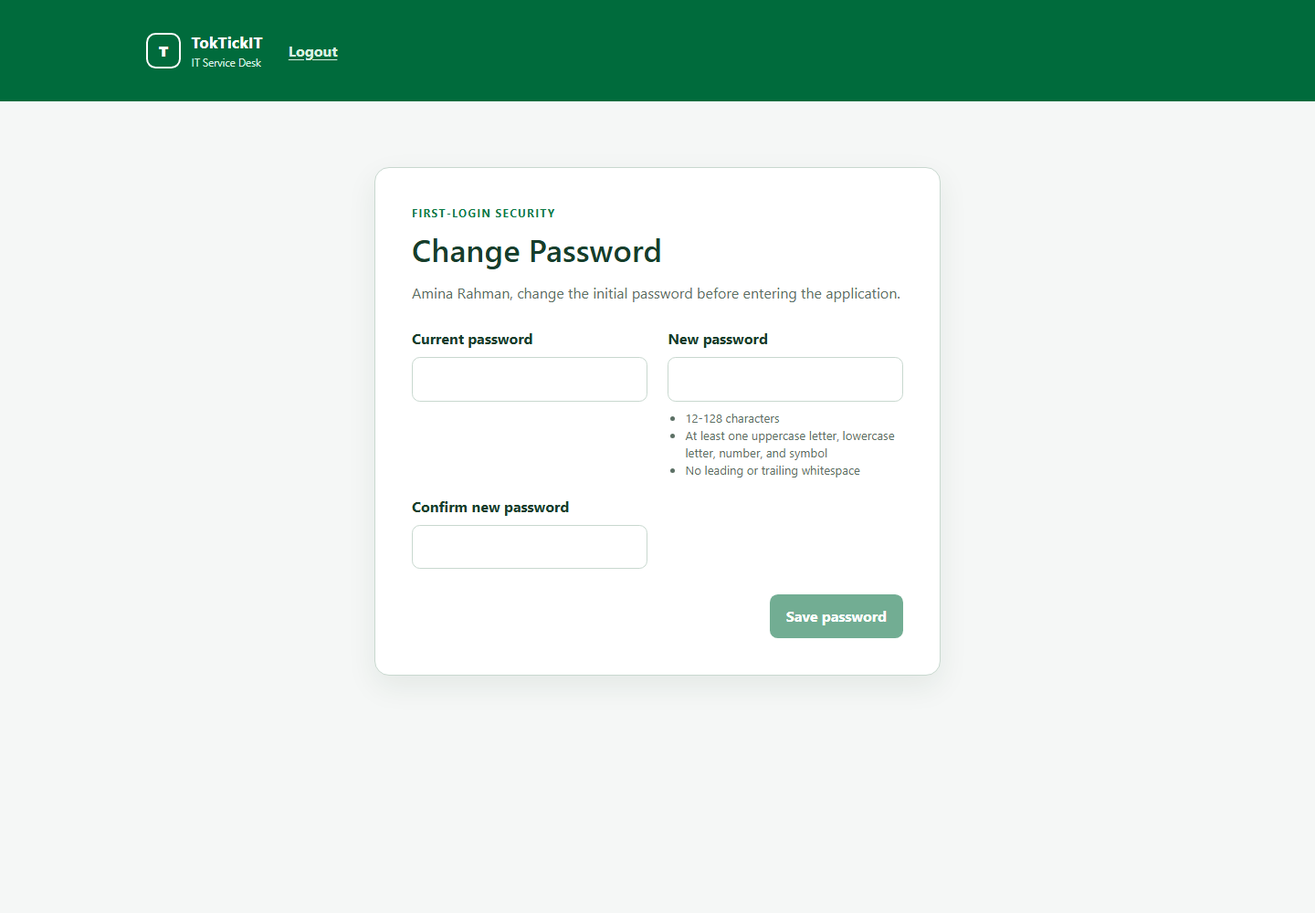
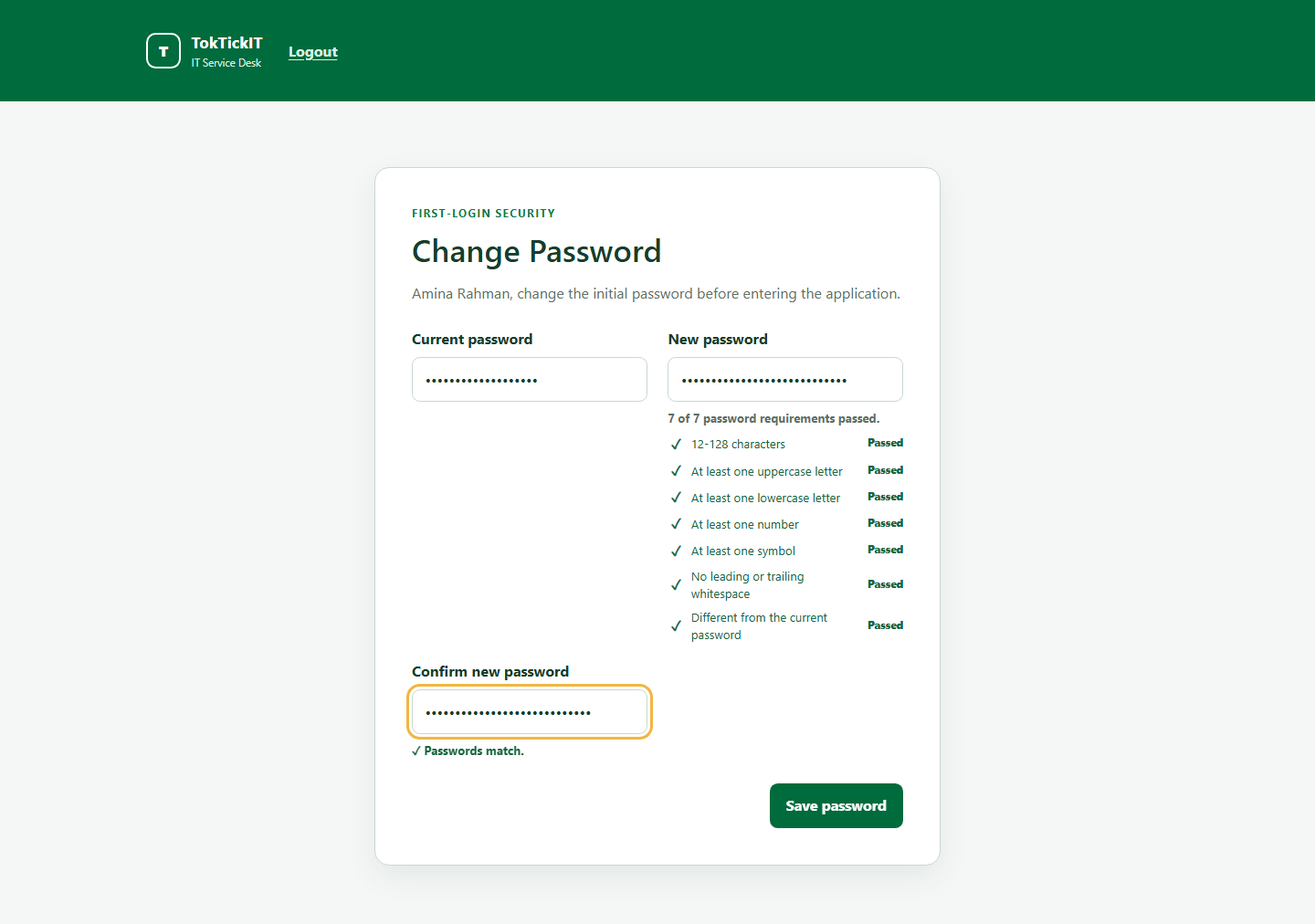
Issue #40: address release review fixes

diff --git a/client/src/App.tsx b/client/src/App.tsx
@@ -109,6 +109,17 @@ function LogoutFeedback({ message, onRetry, pending }: { message: string | null;
   return <div className="zen-state zen-state-error" role="alert"><p>{message}</p><button className="zen-button zen-button-secondary" type="button" onClick={onRetry} disabled={pending}>{pending ? "Retrying logout..." : "Retry logout"}</button></div>;
 }
 
+function PasswordRequirement({ met, active, children }: { met: boolean; active: boolean; children: string }) {
+  const state = !active ? "required" : met ? "passed" : "not-yet";
+  return (
+    <li className={`zen-password-rule is-${state}`}>
+      <span className="zen-password-rule-icon" aria-hidden="true">{!active ? "–" : met ? "✓" : "×"}</span>
+      <span className="zen-password-rule-label">{children}</span>
+      <span className="zen-password-rule-state">{!active ? "Required" : met ? "Passed" : "Not yet"}</span>
+    </li>
+  );
+}
+
 function ChangePasswordPage({ user, onSuccess, onLogout, logoutError, logoutPending }: { user: AuthUser; onSuccess: (next: AuthUser) => void; onLogout: () => void; logoutError: string | null; logoutPending: boolean }) {
   const [current, setCurrent] = useState("");
   const [next, setNext] = useState("");
@@ -116,6 +127,19 @@ function ChangePasswordPage({ user, onSuccess, onLogout, logoutError, logoutPend
   const [submitting, setSubmitting] = useState(false);
   const [error, setError] = useState<string | null>(null);
   const [fieldErrors, setFieldErrors] = useState<Record<string, string>>({});
+  const passwordStarted = next.length > 0;
+  const passwordRequirements = [
+    { label: "12-128 characters", met: next.length >= 12 && next.length <= 128 },
+    { label: "At least one uppercase letter", met: /[A-Z]/.test(next) },
+    { label: "At least one lowercase letter", met: /[a-z]/.test(next) },
+    { label: "At least one number", met: /[0-9]/.test(next) },
+    { label: "At least one symbol", met: /[^A-Za-z0-9]/.test(next) },
+    { label: "No leading or trailing whitespace", met: next.trim() === next },
+    { label: "Different from the current password", met: current.length > 0 && next !== current },
+  ];
+  const passedRequirementCount = passwordStarted ? passwordRequirements.filter((requirement) => requirement.met).length : 0;
+  const confirmationStarted = confirm.length > 0;
+  const passwordsMatch = confirmationStarted && confirm === next;
 
   function updatePasswordField(field: "current" | "next" | "confirm", value: string) {
     if (field === "current") setCurrent(value);
@@ -170,8 +194,8 @@ function ChangePasswordPage({ user, onSuccess, onLogout, logoutError, logoutPend
         <p className="zen-eyebrow">First-login security</p><h1 id="change-password-heading">Change Password</h1><p className="zen-lead">{user.name}, change the initial password before entering the application.</p>
         <form onSubmit={(event) => void submit(event)} noValidate><div className="zen-form-grid">
           <div className="zen-field"><label htmlFor="current-password">Current password</label><input id="current-password" className="zen-input" type="password" value={current} onChange={(event) => updatePasswordField("current", event.target.value)} autoComplete="current-password" aria-invalid={Boolean(fieldErrors.current)} aria-describedby={fieldErrors.current ? "current-password-error" : undefined} required />{fieldErrors.current && <p id="current-password-error" className="zen-field-error" role="alert">{fieldErrors.current}</p>}</div>
-          <div className="zen-field"><label htmlFor="new-password">New password</label><input id="new-password" className="zen-input" type="password" value={next} onChange={(event) => updatePasswordField("next", event.target.value)} autoComplete="new-password" aria-invalid={Boolean(fieldErrors.next)} aria-describedby={`password-policy-hint${fieldErrors.next ? " new-password-error" : ""}`} required /><ul id="password-policy-hint" className="zen-password-policy"><li>12-128 characters</li><li>At least one uppercase letter, lowercase letter, number, and symbol</li><li>No leading or trailing whitespace</li></ul>{fieldErrors.next && <p id="new-password-error" className="zen-field-error" role="alert">{fieldErrors.next}</p>}</div>
-          <div className="zen-field"><label htmlFor="confirm-password">Confirm new password</label><input id="confirm-password" className="zen-input" type="password" value={confirm} onChange={(event) => updatePasswordField("confirm", event.target.value)} autoComplete="new-password" aria-invalid={Boolean(fieldErrors.confirm)} aria-describedby={fieldErrors.confirm ? "confirm-password-error" : undefined} required />{fieldErrors.confirm && <p id="confirm-password-error" className="zen-field-error" role="alert">{fieldErrors.confirm}</p>}</div>
+          <div className="zen-field"><label htmlFor="new-password">New password</label><input id="new-password" className="zen-input" type="password" value={next} onChange={(event) => updatePasswordField("next", event.target.value)} autoComplete="new-password" aria-invalid={Boolean(fieldErrors.next)} aria-describedby={`password-policy-summary password-policy-hint${fieldErrors.next ? " new-password-error" : ""}`} required /><p id="password-policy-summary" className="zen-password-policy-summary" role="status" aria-live="polite">{passedRequirementCount} of {passwordRequirements.length} password requirements passed.</p><ul id="password-policy-hint" className="zen-password-policy">{passwordRequirements.map((requirement) => <PasswordRequirement key={requirement.label} met={requirement.met} active={passwordStarted}>{requirement.label}</PasswordRequirement>)}</ul>{fieldErrors.next && <p id="new-password-error" className="zen-field-error" role="alert">{fieldErrors.next}</p>}</div>
+          <div className="zen-field"><label htmlFor="confirm-password">Confirm new password</label><input id="confirm-password" className="zen-input" type="password" value={confirm} onChange={(event) => updatePasswordField("confirm", event.target.value)} autoComplete="new-password" aria-invalid={Boolean(fieldErrors.confirm) || (confirmationStarted && !passwordsMatch)} aria-describedby={`${confirmationStarted ? "password-match-status" : ""}${fieldErrors.confirm ? " confirm-password-error" : ""}`.trim() || undefined} required />{confirmationStarted && <p id="password-match-status" className={`zen-password-match ${passwordsMatch ? "is-passed" : "is-not-yet"}`} role="status" aria-live="polite"><span aria-hidden="true">{passwordsMatch ? "✓" : "×"}</span> {passwordsMatch ? "Passwords match." : "Passwords do not match yet."}</p>}{fieldErrors.confirm && <p id="confirm-password-error" className="zen-field-error" role="alert">{fieldErrors.confirm}</p>}</div>
         </div>{error && <p className="zen-field-error" role="alert">{error}</p>}<div className="zen-form-actions"><button className="zen-button zen-button-primary" type="submit" disabled={submitting || !current || !next || !confirm}>{submitting ? "Saving password..." : "Save password"}</button></div></form>
       </section></main>
     </div>

diff --git a/client/tests/lab-03/UserManagement.test.tsx b/client/tests/lab-03/UserManagement.test.tsx
@@ -95,6 +95,52 @@ describe("Lab 3 Administrator User Management", () => {
     await waitFor(() => expect(api.updateAdminUser).toHaveBeenCalledWith(2, { name: "Michael Updated", email: staff.email, role: "IT_STAFF", isActive: true }));
   });
 
+  it("reapplies the active search and role filters after creating or editing a User", async () => {
+    let serverUsers = [admin, staff, requester];
+    vi.mocked(api.fetchAdminUsers).mockImplementation(async ({ search, role } = {}) => ({
+      users: serverUsers.filter((candidate) => (
+        (!role || candidate.role === role)
+        && (!search || candidate.name.toLowerCase().includes(search.toLowerCase()) || candidate.email.toLowerCase().includes(search.toLowerCase()))
+      )),
+    }));
+    vi.mocked(api.createAdminUser).mockImplementation(async (input) => {
+      const created = { ...requester, id: 9, name: input.name, email: input.email, role: input.role, isActive: input.isActive, mustChangePassword: true };
+      serverUsers = [...serverUsers, created];
+      return { user: created };
+    });
+    vi.mocked(api.updateAdminUser).mockImplementation(async (id, input) => {
+      const existing = serverUsers.find((candidate) => candidate.id === id)!;
+      const updated = { ...existing, ...input };
+      serverUsers = serverUsers.map((candidate) => candidate.id === id ? updated : candidate);
+      return { user: updated };
+    });
+
+    const user = userEvent.setup();
+    render(<AdminUserManagement />);
+    await screen.findByRole("heading", { name: "User Management" });
+    await user.type(screen.getByRole("searchbox", { name: "Search users" }), "Michael");
+    await user.click(screen.getByRole("button", { name: "Search" }));
+    await waitFor(() => expect(api.fetchAdminUsers).toHaveBeenLastCalledWith({ search: "Michael" }));
+    await user.selectOptions(screen.getByRole("combobox", { name: "Role" }), "IT_STAFF");
+    await waitFor(() => expect(api.fetchAdminUsers).toHaveBeenLastCalledWith({ search: "Michael", role: "IT_STAFF" }));
+
+    await user.click(screen.getByRole("button", { name: "Create User" }));
+    await user.type(screen.getByLabelText("Name"), "Filtered Requester");
+    await user.type(screen.getByLabelText("Email"), "filtered.requester@example.test");
+    await user.type(screen.getByLabelText("Initial password"), "Initial-User!2026");
+    await user.click(screen.getByRole("button", { name: "Save User" }));
+
+    await waitFor(() => expect(api.fetchAdminUsers).toHaveBeenLastCalledWith({ search: "Michael", role: "IT_STAFF" }));
+    expect(screen.queryByText("Filtered Requester")).not.toBeInTheDocument();
+
+    await user.click(screen.getAllByRole("button", { name: "Edit Michael Staff" })[0]);
+    await user.selectOptions(screen.getByRole("combobox", { name: "User role" }), "REQUESTER");
+    await user.click(screen.getByRole("button", { name: "Save User" }));
+
+    await waitFor(() => expect(screen.getByText("No Users match the current search.")).toBeInTheDocument());
+    expect(api.fetchAdminUsers).toHaveBeenLastCalledWith({ search: "Michael", role: "IT_STAFF" });
+  });
+
   it("shows safe owner/safety failures and offers a password reset action", async () => {
     vi.mocked(api.updateAdminUser).mockRejectedValueOnce(new api.ApiClientError("This User owns Tickets and cannot be made ineligible.", 409, "USER_OWNS_TICKETS"));
     const user = userEvent.setup();

diff --git a/client/tests/lab-03/ChangePassword.test.tsx b/client/tests/lab-03/ChangePassword.test.tsx
@@ -33,8 +33,12 @@ describe("Lab 3 mandatory Change Password screen", () => {
     expect(screen.getByLabelText("New password")).toBeInTheDocument();
     expect(screen.getByLabelText("Confirm new password")).toBeInTheDocument();
     expect(screen.getByText("12-128 characters")).toBeInTheDocument();
-    expect(screen.getByText(/uppercase letter, lowercase letter, number, and symbol/)).toBeInTheDocument();
+    expect(screen.getByText("At least one uppercase letter")).toBeInTheDocument();
+    expect(screen.getByText("At least one lowercase letter")).toBeInTheDocument();
+    expect(screen.getByText("At least one number")).toBeInTheDocument();
+    expect(screen.getByText("At least one symbol")).toBeInTheDocument();
     expect(screen.getByText("No leading or trailing whitespace")).toBeInTheDocument();
+    expect(screen.getByText("Different from the current password")).toBeInTheDocument();
     expect(screen.getByRole("button", { name: "Save password" })).toBeDisabled();
   });
 
@@ -62,6 +66,39 @@ describe("Lab 3 mandatory Change Password screen", () => {
     expect(screen.getByText("Please correct the highlighted fields.")).toBeInTheDocument();
     expect(screen.getByText("Password must be 12-128 characters without surrounding whitespace.")).toBeInTheDocument();
     expect(fetchMock).toHaveBeenCalledTimes(1);
+  });
+
+  it("updates every password requirement and confirmation status while the User types", async () => {
+    setPath("/change-password");
+    vi.stubGlobal("fetch", vi.fn((input: RequestInfo | URL) => {
+      if (String(input).endsWith("/api/auth/me")) {
+        return Promise.resolve(new Response(JSON.stringify({
+          user: { id: 101, name: "Amina Rahman", email: "amina@example.test", role: "REQUESTER", isActive: true, mustChangePassword: true },
+          csrfToken: "csrf-test-token",
+        }), { status: 200, headers: { "Content-Type": "application/json" } }));
+      }
+      return Promise.resolve(new Response("{}", { status: 500, headers: { "Content-Type": "application/json" } }));
+    }));
+    const user = userEvent.setup();
+    render(<App />);
+
+    await screen.findByRole("heading", { name: "Change Password" });
+    const currentPassword = screen.getByLabelText("Current password");
+    const newPassword = screen.getByLabelText("New password");
+    const confirmPassword = screen.getByLabelText("Confirm new password");
+
+    expect(screen.getByText("0 of 7 password requirements passed.")).toBeInTheDocument();
+    await user.type(currentPassword, "Current-Password!2026");
+    await user.type(newPassword, "New-Password!2026");
+
+    expect(screen.getByText("7 of 7 password requirements passed.")).toBeInTheDocument();
+    expect(screen.getAllByText("Passed")).toHaveLength(7);
+
+    await user.type(confirmPassword, "does-not-match");
+    expect(screen.getByText("Passwords do not match yet.")).toBeInTheDocument();
+    await user.clear(confirmPassword);
+    await user.type(confirmPassword, "New-Password!2026");
+    expect(screen.getByText("Passwords match.")).toBeInTheDocument();
   });
 
   it("surfaces safe server messages and field errors", async () => {

diff --git a/e2e/lab-03/authentication.spec.ts b/e2e/lab-03/authentication.spec.ts
@@ -3,6 +3,7 @@ import { expect, test } from "@playwright/test";
 import {
   assertNoHorizontalOverflow,
   completeFirstLogin,
+  fillFirstLoginPassword,
   resetLab3Users,
   saveEvidenceScreenshot,
   signInWithInitialPassword,
@@ -19,9 +20,13 @@ test.describe("Lab 3 authentication and role navigation", () => {
     await saveEvidenceScreenshot(page, testInfo.project.name, "authentication", "login");
     await signInWithInitialPassword(page, "requesterA");
     await expect(page.getByRole("heading", { name: "Change Password" })).toBeVisible();
+    await fillFirstLoginPassword(page, "requesterA");
+    await expect(page.getByText("7 of 7 password requirements passed.")).toBeVisible();
+    await expect(page.getByText("Passwords match.")).toBeVisible();
     await new AxeBuilder({ page }).analyze().then((result) => expect(result.violations).toEqual([]));
     await saveEvidenceScreenshot(page, testInfo.project.name, "authentication", "change-password");
-    await completeFirstLogin(page, "requesterA");
+    await page.getByRole("button", { name: "Save password", exact: true }).click();
+    await expect(page).not.toHaveURL(/\/change-password$/);
     await expect(page).toHaveURL(/\/tickets$/);
     await expect(page.getByRole("heading", { name: "My Tickets" })).toBeVisible();
     await assertNoHorizontalOverflow(page);

diff --git a/client/src/AdminUserManagement.tsx b/client/src/AdminUserManagement.tsx
@@ -124,13 +124,12 @@ export default function AdminUserManagement() {
     setError(null);
     try {
       if (editor.id) {
-        const result = await updateAdminUser(editor.id, { name: editor.name.trim(), email: editor.email.trim(), role: editor.role, isActive: editor.isActive });
-        setUsers((current) => current.map((user) => user.id === result.user.id ? result.user : user));
+        await updateAdminUser(editor.id, { name: editor.name.trim(), email: editor.email.trim(), role: editor.role, isActive: editor.isActive });
       } else {
-        const result = await createAdminUser({ name: editor.name.trim(), email: editor.email.trim(), role: editor.role, isActive: editor.isActive, initialPassword: editor.initialPassword });
-        setUsers((current) => [...current, result.user].sort((a, b) => a.name.localeCompare(b.name)));
+        await createAdminUser({ name: editor.name.trim(), email: editor.email.trim(), role: editor.role, isActive: editor.isActive, initialPassword: editor.initialPassword });
       }
       setEditor(null);
+      await load(appliedSearch, role);
     } catch (reason) {
       setError(safeMessage(reason, "Unable to save User."));
     } finally {

diff --git a/client/src/styles.css b/client/src/styles.css
@@ -428,10 +428,58 @@ textarea:focus-visible {
 }
 
 .zen-password-policy {
+  display: grid;
+  gap: 0.45rem;
   margin: 0;
-  padding-left: 1.2rem;
+  padding: 0;
+  list-style: none;
+  font-size: 0.82rem;
+  line-height: 1.45;
+}
+
+.zen-password-policy-summary {
+  margin: 0;
   color: var(--zen-muted);
   font-size: 0.82rem;
+  font-weight: 700;
+  line-height: 1.45;
+}
+
+.zen-password-rule {
+  display: grid;
+  grid-template-columns: 1.15rem minmax(0, 1fr) auto;
+  align-items: center;
+  gap: 0.45rem;
+  border-radius: 0.4rem;
+  color: var(--zen-muted);
+}
+
+.zen-password-rule-icon {
+  font-size: 0.95rem;
+  font-weight: 900;
+  text-align: center;
+}
+
+.zen-password-rule-state {
+  font-size: 0.72rem;
+  font-weight: 800;
+  white-space: nowrap;
+}
+
+.zen-password-rule.is-passed,
+.zen-password-match.is-passed {
+  color: #17663e;
+}
+
+.zen-password-rule.is-not-yet,
+.zen-password-match.is-not-yet {
+  color: var(--zen-error);
+}
+
+.zen-password-match {
+  margin: 0;
+  font-size: 0.82rem;
+  font-weight: 750;
   line-height: 1.45;
 }
 

diff --git a/e2e/lab-03/lab3-fixtures.ts b/e2e/lab-03/lab3-fixtures.ts
@@ -83,12 +83,16 @@ export async function signInWithInitialPassword(page: Page, role: Lab3Role): Pro
   await expect(page).toHaveURL(/\/change-password$/);
 }
 
-export async function completeFirstLogin(page: Page, role: Lab3Role): Promise<void> {
+export async function fillFirstLoginPassword(page: Page, role: Lab3Role): Promise<void> {
   const { passwordKey } = roleSettings[role];
   const nextPassword = changedPassword(configuredPassword(passwordKey));
   await page.getByRole("textbox", { name: "Current password", exact: true }).fill(configuredPassword(passwordKey));
   await page.getByRole("textbox", { name: "New password", exact: true }).fill(nextPassword);
   await page.getByRole("textbox", { name: "Confirm new password", exact: true }).fill(nextPassword);
+}
+
+export async function completeFirstLogin(page: Page, role: Lab3Role): Promise<void> {
+  await fillFirstLoginPassword(page, role);
   await page.getByRole("button", { name: "Save password", exact: true }).click();
   await expect(page).not.toHaveURL(/\/change-password$/);
 }

diff --git a/docs/lab-03/tests.md b/docs/lab-03/tests.md
@@ -289,16 +289,16 @@ Issue #38 focused API-10 and UI-06 results are recorded above (6 API tests and 4
 | API-10 | API | FR-13/14, AC-16/17/18/19 | Admin user list/create/edit/activation/reset, `USER_OWNS_TICKETS` atomic rejection, session revocation after role/activation changes, and safety rules — `server/tests/lab-03/users-admin.api.test.ts` | Passed: 6 tests |
 | API-11 | API | FR-07/11, AC-08/15 | Active/removed Attachment metadata, download headers, exact route compatibility, and staff/requester access continuation — `server/tests/lab-02/attachments.api.test.ts`, `server/tests/lab-02/ticket-detail.api.test.ts`, `server/tests/lab-03/requester-regression.api.test.ts`, `server/tests/lab-03/staff-ticket-detail.api.test.ts` | Passed in the configured Lab 3 release rerun; the current unconfigured shell rerun is recorded as blocked below |
 | API-12 | API | FR-04/16, AC-05/20 | Exact authenticated Categories, Related Systems, and staff-assignee response/error contracts — `server/tests/lab-02/reference-data.test.ts`, `server/tests/lab-03/staff-queue.api.test.ts` | Passed in the configured Lab 3 release rerun; the current unconfigured shell rerun is recorded as blocked below |
-| UI-01 | Component | FR-01/02/17, AC-01/02/03/21 | Login form, safe failure, busy guard, and redirect — `client/tests/lab-03/Login.test.tsx`, `client/tests/lab-03/RequesterRegression.test.tsx` | Passed: 1 focused Login test; full client suite 13 files/51 tests |
-| UI-02 | Component | FR-02/03/17, AC-03/04/21 | Change-password guard, policy errors, success, and focus — `client/tests/lab-03/ChangePassword.test.tsx`, `client/tests/lab-03/RequesterRegression.test.tsx` | Passed: 1 focused Change Password test; full client suite 13 files/51 tests |
+| UI-01 | Component | FR-01/02/17, AC-01/02/03/21 | Login form, safe failure, busy guard, and redirect — `client/tests/lab-03/Login.test.tsx`, `client/tests/lab-03/RequesterRegression.test.tsx` | Passed: 1 focused Login test; full client suite 13 files/56 tests |
+| UI-02 | Component | FR-02/03/17, AC-03/04/21 | Change-password guard, live policy checklist, confirmation match status, precise errors, success, and focus — `client/tests/lab-03/ChangePassword.test.tsx`, `client/tests/lab-03/RequesterRegression.test.tsx` | Passed: 4 focused Change Password tests; full client suite 13 files/56 tests |
 | UI-03 | Component | FR-06/07/08, AC-07/08/09/21 | Authenticated shell, logout retry, session-expiry redirect, stale session-restore suppression, role-route guards, direct Change Password guard, and Requester list/create/detail regression — `client/tests/lab-03/RequesterRegression.test.tsx` | Passed: 10 focused tests plus inherited Lab 2 list/create/detail/attachment UI regressions |
-| UI-04 | Component | FR-09/17, AC-10/11/21 | Queue controls, Requested/IT Priority filters and sorting, states, role visibility, cards/table, pagination, and functional Open-detail navigation — `client/tests/lab-03/StaffTicketQueue.test.tsx` | Passed: 5 focused tests; latest full client suite 13 files/51 tests |
+| UI-04 | Component | FR-09/17, AC-10/11/21 | Queue controls, Requested/IT Priority filters and sorting, states, role visibility, cards/table, pagination, and functional Open-detail navigation — `client/tests/lab-03/StaffTicketQueue.test.tsx` | Passed: 5 focused tests; latest full client suite 13 files/56 tests |
 | UI-05 | Component | FR-10/11/12, AC-12/13/14/15/21 | Staff detail actions, priority mutation, dialogs, comments, notes, and attachments — `client/tests/lab-03/StaffTicketDetail.test.tsx` | Passed: 3 focused tests |
-| UI-06 | Component | FR-13/14, AC-16/17/18/19/21 | User list/editor, validation, activation, `USER_OWNS_TICKETS` conflict feedback, session-effect messaging, reset controls, and mobile cards — `client/tests/lab-03/UserManagement.test.tsx` | Passed: 4 tests |
+| UI-06 | Component | FR-13/14, AC-16/17/18/19/21 | User list/editor, validation, activation, active-filter reapplication after create/edit, `USER_OWNS_TICKETS` conflict feedback, session-effect messaging, reset controls, and mobile cards — `client/tests/lab-03/UserManagement.test.tsx` | Passed: 5 tests |
 | STYLE-01 | Style/a11y | FR-17, AC-11/21 | Labels, focus, roles, contrast, touch targets, semantic feedback — `client/tests/lab-02/ZenGreen.styles.test.tsx`, `client/tests/lab-03/*.test.tsx`, `e2e/lab-03/*.spec.ts` | Passed: stylesheet/component checks and Playwright accessibility assertions |
 | STYLE-02 | Responsive | FR-17, AC-11/21 | Desktop/tablet/mobile layout and no page-wide horizontal scroll — `e2e/lab-03/*.spec.ts`, `artifacts/lab-03/screenshots/` | Passed: 33/33 Playwright project runs and inspected responsive screenshots |
 | REG-01 | Regression | AC-06/07/08/15 | Complete prior server suite after migration and auth integration — `server/tests/lab-01/**`, `server/tests/lab-02/**`, `server/tests/lab-03/**` | Configured green evidence: 26 files/89 tests passed at commit `030d1db`; current shell rerun is blocked by missing local password variables (16 files passed, 10 failed, 28 skipped) |
-| REG-02 | Regression | AC-06/07/08/21 | Complete prior client suite after selector-to-auth migration — `client/tests/lab-01/**`, `client/tests/lab-02/**`, `client/tests/lab-03/**` | Passed: 13 files, 51 tests |
+| REG-02 | Regression | AC-06/07/08/21 | Complete prior client suite after selector-to-auth migration — `client/tests/lab-01/**`, `client/tests/lab-02/**`, `client/tests/lab-03/**` | Passed: 13 files, 56 tests |
 | E2E-01 | E2E | AC-01/02/03/04/05/21 | Login, first-login change, logout, guard, and role navigation — `e2e/lab-03/authentication.spec.ts` | Passed: 9/9 project runs |
 | E2E-02 | E2E | AC-07/08/09/14/21 | Requester Ticket continuity, comment, resolution indication, and note privacy — `e2e/lab-03/requester-regression.spec.ts` | Passed: 6/6 project runs |
 | E2E-03 | E2E | AC-10/11/12/13/14/15/21 | Staff queue/detail operations, priority filters/mutations, comments, notes, attachments, and responsive views — `e2e/lab-03/staff-ticket-flow.spec.ts` | Passed: 9/9 project runs |
@@ -646,7 +646,7 @@ Screenshot captions for the green isolated run:
 | Evidence path | Caption | Requirement proved |
 |---|---|---|
 | `authentication/<project>/login.png` | Sign-in form at the named responsive breakpoint with aligned Email and Password controls. | AC-01/03, consistent form layout and accessible labels. |
-| `authentication/<project>/change-password.png` | First-login Change Password form at the named responsive breakpoint. | AC-03/04, accessible validation and responsive layout. |
+| `authentication/<project>/change-password.png` | First-login Change Password form with an explicit seven-rule checklist at the named responsive breakpoint. | AC-03/04, understandable accessible validation and responsive layout. |
 | `authentication/<project>/requester-first-login.png` | Authenticated Requester My Tickets shell after the initial password change. | AC-01/02/07 and role identity/navigation. |
 | `authentication/<project>/requester-ticket-detail.png` | Requester-owned Ticket detail with comment and attachment lifecycle evidence. | AC-07/08/09/14 and ownership/privacy behavior. |
 | `authentication/<project>/logout-and-route-guard.png` | Login screen after logout and a protected-route redirect. | AC-04/05 and session safety. |
@@ -664,7 +664,7 @@ Screenshot captions for the green isolated run:
 - [x] Contract PR #43 is visibly merged before product PRs; its actual changes-requested review state is recorded without inventing an Approve.
 - [x] Login, Change Password, Requester, Staff Queue, Staff Detail, and Admin screenshots have readable captions and requirement links.
 - [x] Safe 401/403/404/409/429 responses and ownership/privacy evidence are sanitized.
-- [x] Complete server/client tests and builds show no unexpected failures: server 26 files/89 tests, client 13 files/54 tests, and both production builds passed.
+- [x] Complete server/client tests and builds show no unexpected failures: server 26 files/89 tests, client 13 files/56 tests, and both production builds passed.
 - [x] Migration plus two repeated seed runs show stable counts and preserved IDs on guarded database `toktickit_test`.
 - [x] Playwright output shows all 33 required Lab 3 tests passed across desktop/tablet/mobile with no skips.
 - [x] `reviewer.md`, README, Project/Issue/PR evidence, and release documents have working links; final board capture is student-confirmed in the PDF.
@@ -718,7 +718,7 @@ Issue #40 candidate verification was rerun after the release-audit implementatio
 ```text
 Command: cd client; npm.cmd test -- --run
 Test Files  13 passed (13)
-Tests       54 passed (54)
+Tests       56 passed (56)
 Result      exit status 0
 
 Command: cd client; npm.cmd run build
@@ -762,13 +762,18 @@ The student explicitly authorized resetting only `toktickit_test`. No
 development database, production database, uploaded file, or committed secret
 was modified by the clean release rerun.
 
+The PR #50 User Management review fix also followed a failing-first check. The new focused test initially failed
+because a created Requester was appended while the `IT_STAFF` filter remained active. After changing create/edit
+success handling to reload the authoritative list with the applied search and role, the focused file passed 5/5;
+the complete client regression then passed 13 files/56 tests and the production build passed.
+
 - [x] Issue #40 branch was created from the latest merged `lab3-staging`.
 - [x] Release-audit red phase was run before implementation.
 - [x] Release-audit unit test passes and reports missing final evidence without fabricating it.
 - [x] README now documents Lab 3 local passwords, guarded test commands, and evidence links.
 - [x] Candidate branch history and the current `lab3-staging`/`main` SHAs are recorded in
   `docs/lab-03/release-evidence/repository-history.md`.
-- [x] Candidate client regression passes (13 files/54 tests) and the client production build passes.
+- [x] Candidate client regression passes (13 files/56 tests) and the client production build passes.
 - [x] Candidate server TypeScript build passes.
 - [x] Candidate Playwright passes 33/33 across desktop/tablet/mobile with no skips.
 - [x] Guarded migration and two repeated seed runs pass against `toktickit_test` with stable counts.

diff --git a/docs/lab-03/reviewer.md b/docs/lab-03/reviewer.md
@@ -148,11 +148,19 @@ The review scope was Administrator-only User Management: list/search/role filter
 
 | PR | Branch | Review status | Response/evidence |
 |---|---|---|---|
-| Not opened | `feature/20-Lab3ReleaseEvidence` | Release audit in progress; no Issue #40 PR review claimed | The repository-level audit, candidate history, pre-promotion record, Project/Issue/PR evidence, and student-confirmed PDF audit are recorded under `docs/lab-03/release-evidence/`. The existing formal teammate **Approve** for PR #44 is recorded above; no Issue #40 approval is claimed because its PR has not been opened. |
+| [PR #50](https://github.com/osizk/TokTickIT/pull/50) | `feature/20-Lab3ReleaseEvidence` | Open; review pending; no formal Issue #40 **Approve** or merge claimed | PR #50 targets `lab3-staging`. The repository-level audit, candidate history, pre-promotion record, Project/Issue/PR evidence, and student-confirmed PDF audit are recorded under `docs/lab-03/release-evidence/`. Review responses, any formal approval, and merge evidence will be recorded only after those GitHub events actually occur. |
 
-**Reviewer verdict:** No Issue #40 PR has been opened yet. GitHub confirms that PRs #43-#49 are merged and Issues #33-#39 are closed. The actual review state of every PR remains recorded without relabeling comments or changes-requested reviews as formal approvals.
+### PR #50 review comments and responses
 
-**My review verdict:** I kept the release work bounded to evidence tooling and truthful documentation. The repository records the pre-promotion baseline because the final merge SHA cannot exist before promotion; the student confirms the final `main` graph, Project board, and PDF audit will be preserved in the submission PDF. No Issue #40 approval is claimed before its PR exists.
+| Partner comment | Student response and verification | Status |
+|---|---|---|
+| README advertised Node.js 18+ even though Playwright 1.62 requires Node.js 20 or newer. | Raised the documented prerequisite to Node.js 20+ and retained the approved Playwright version. | Addressed locally; the client install contract and README now agree. |
+| The Issue #40 section still said that its PR had not been opened after PR #50 existed. | Added the PR #50 link and recorded only its current open/review-pending state. No approval or merge is claimed. | Addressed locally; final review and merge evidence remain pending. |
+| User Management appended create/edit results without reapplying the active search and role filter. | Added a failing regression covering create and edit under an `IT_STAFF` filter, then reloaded the authoritative list with the applied search/role after each successful mutation. | Addressed locally; focused UI-06 passes 5/5 and complete client regression passes 13 files/56 tests. |
+
+**Reviewer verdict:** PR #50 is open and awaiting review. GitHub confirms that PRs #43-#49 are merged and Issues #33-#39 are closed. No Issue #40 formal **Approve** or merge is claimed before it occurs.
+
+**My review verdict:** I opened PR #50 for the bounded release-evidence work and kept its current review state explicit. The repository records the pre-promotion baseline because the final merge SHA cannot exist before promotion; the student confirms the final `main` graph, Project board, and PDF audit will be preserved in the submission PDF. Approval and merge evidence remain pending.
 
 ## Review evidence rules
 

diff --git a/docs/lab-03/release-evidence/final-main.md b/docs/lab-03/release-evidence/final-main.md
@@ -17,7 +17,7 @@ submission PDF rather than added through a later documentation branch.
 ## Pre-promotion release gate
 
 - Server and client production builds: passed on the Issue #40 candidate.
-- Client regression: 13 files and 54 tests passed.
+- Client regression: 13 files and 56 tests passed.
 - Playwright: 33 tests passed across desktop, tablet, and mobile with no skips.
 - Guarded migration: 6 migrations present and no pending migration.
 - Repeated seed: stable at 4 Categories, 7 Related Systems, 5 Requesters, and

diff --git a/README.md b/README.md
@@ -8,7 +8,7 @@ TokTickIT is an IT service desk application. This project is built using:
 ## Setup Instructions
 
 ### Prerequisites
-- Node.js (v18+)
+- Node.js (v20+; required by Playwright 1.62)
 - PostgreSQL installed and running locally.
 
 ### 1. Database Setup
